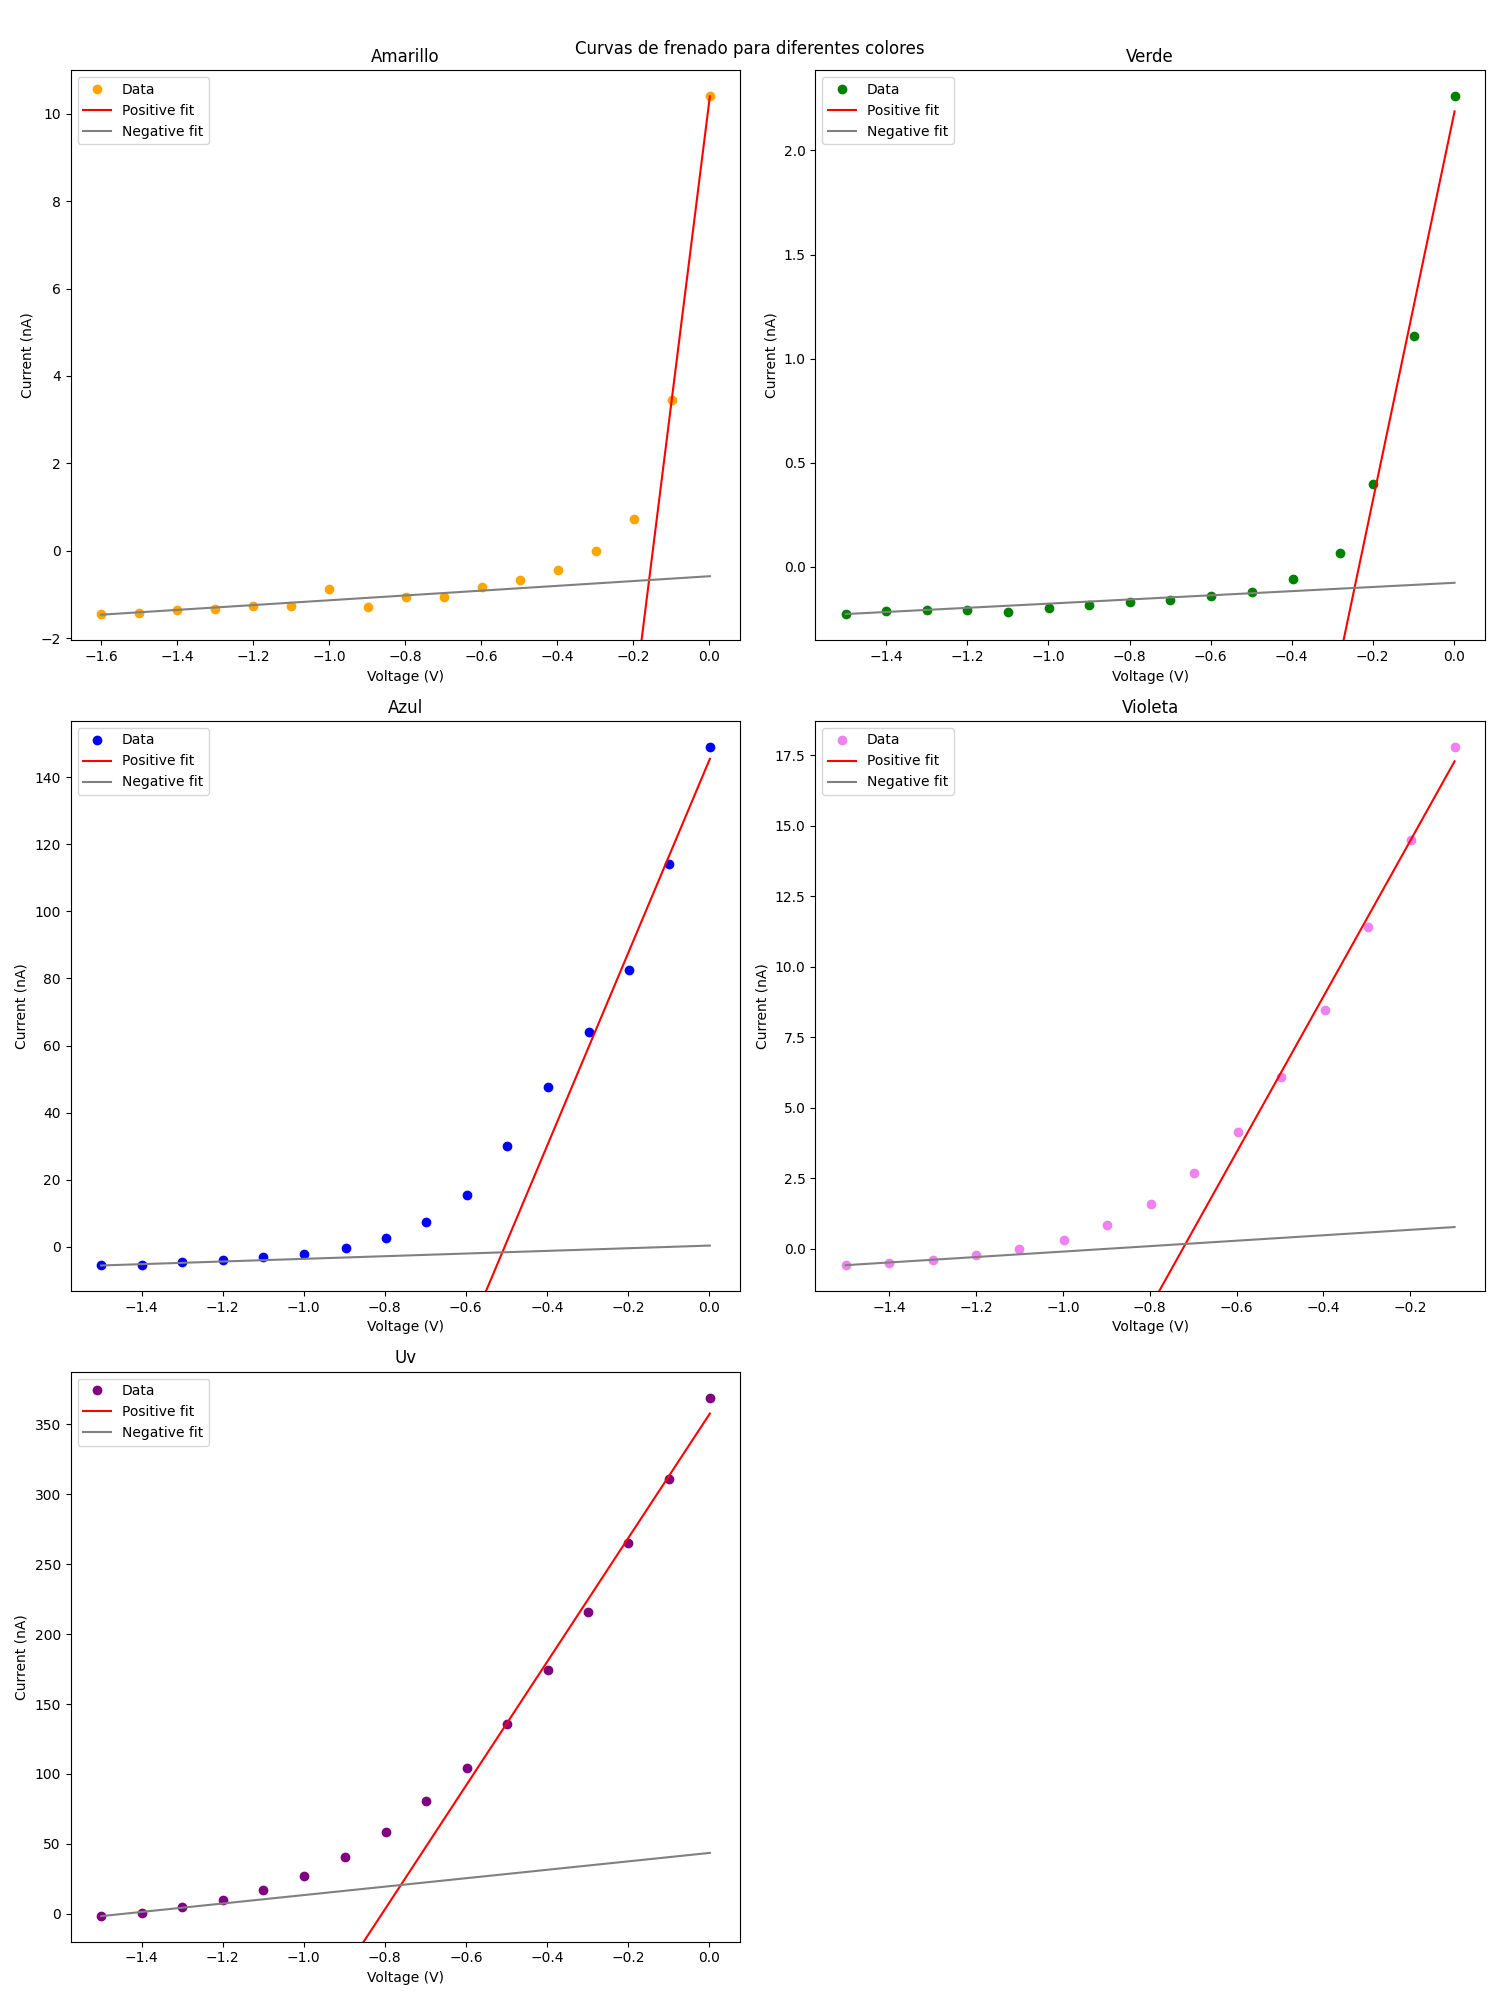
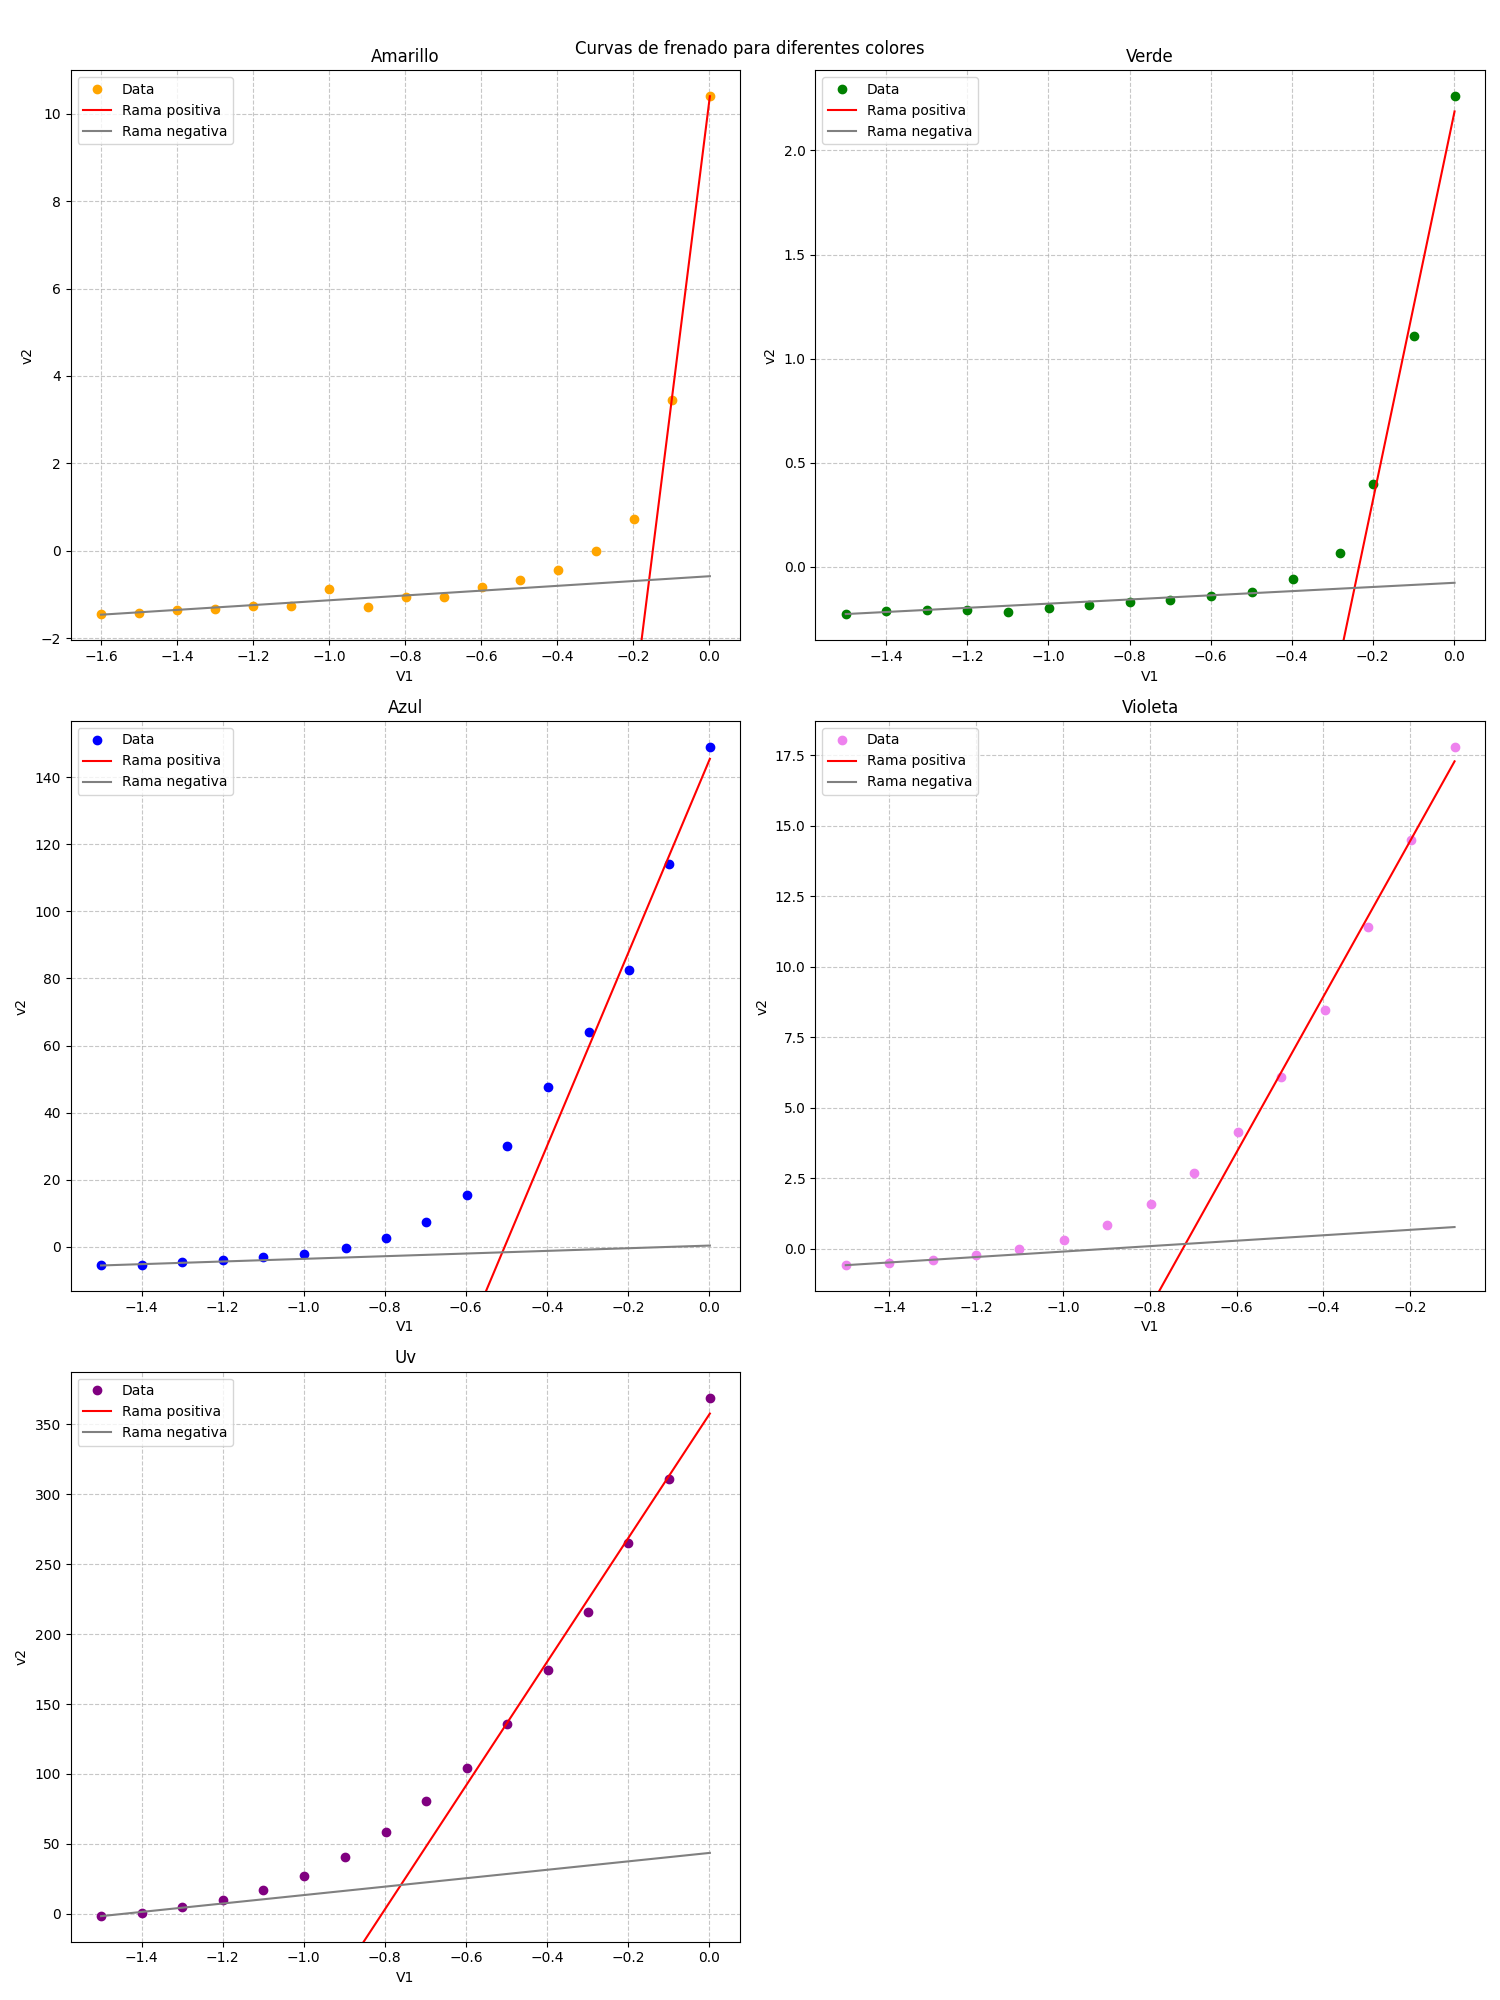
finalizado reporte de la constante de Planck

diff --git a/constante_plank/fit_data.py b/constante_plank/fit_data.py
@@ -44,19 +44,22 @@ def fit_and_plot(ax, data, color, title):
 
     # Plot
     ax.plot(x, y, 'o', color=color, label='Data')
-    ax.plot(x, linear(x, *popt_pos), 'r-', label='Positive fit')
-    ax.plot(x, linear(x, *popt_neg), 'gray', label='Negative fit')
+    ax.plot(x, linear(x, *popt_pos), 'r-', label='Rama positiva')
+    ax.plot(x, linear(x, *popt_neg), 'gray', label='Rama negativa')
     ax.set_title(title)
-    ax.set_xlabel('Voltage (V)')
-    ax.set_ylabel('Current (nA)')
+    ax.set_xlabel('V1')
+    ax.set_ylabel('v2')
     ax.legend()
+
+    # Show grid
+    ax.grid(True, linestyle='--', alpha=0.7)
 
     # Adjust limits to data only
     total_x = max(x) - min(x)
-    toatl_y = max(y) - min(y)
+    total_y = max(y) - min(y)
 
     ax.set_xlim(min(x) - total_x*0.05, max(x) + total_x*0.05)
-    ax.set_ylim(min(y) - toatl_y*0.05, max(y) + toatl_y*0.05)
+    ax.set_ylim(min(y) - total_y*0.05, max(y) + total_y*0.05)
     
     return intersection_x, intersection_y
 

diff --git a/constante_plank/main.tex b/constante_plank/main.tex
@@ -16,8 +16,8 @@
 
 % Title information
 \title{Constante de Planck}
-\author{Nombre del Autor}
-\date{}
+\author{Brian David Leiva. ECFM-USAC}
+\date{Marzo, 2025}
 
 \begin{document}
 
